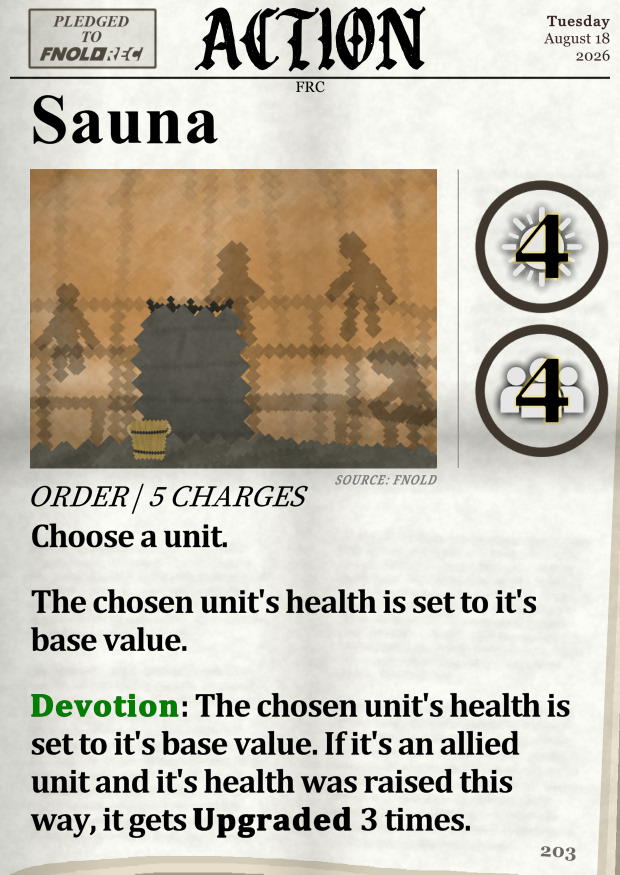
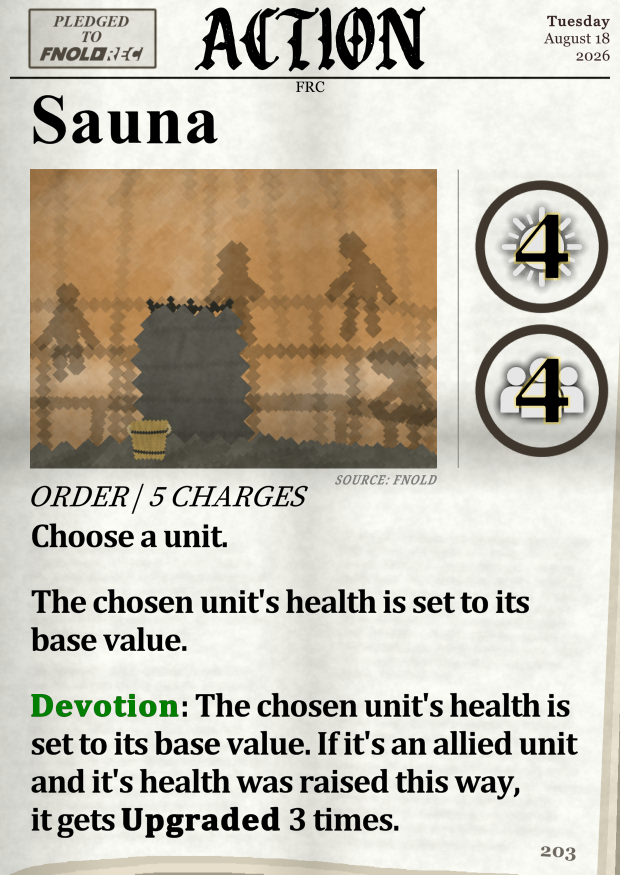
fix typos

Changed region(s): [[0.0306, 0.8331, 0.95, 0.9566], [0.8274, 0.6789, 0.8581, 0.7097]]

diff --git a/rules.html b/rules.html
@@ -179,7 +179,7 @@
                 <br><br>Infamy X - If your graveyard has X or more cards in it, instead activate this effect.
                 <br><br>Change sides - The person who triggered the Change Sides effect chooses the unit in question and another side to give that unit to. If a Busy unit was moved this way, it's still Busy after.
                 <br><br>Bury X - Put the top X cards of your deck into your graveyard.
-                Revive - The affected unit gets returned from graveyard to service. It returns on it's original owner's service, unless stated otherwise.
+                Revive - The affected unit gets returned from graveyard to service. It returns on its original owner's service, unless stated otherwise.
             </details>
             </p>
             </div>

diff --git a/cards/card-database/actions/32.js b/cards/card-database/actions/32.js
@@ -6,7 +6,7 @@ function latest() {
     const card_type = "Action";
     const card_description = `
         <p>
-        If a player would draw a card, they reveal the top card of their deck instead. Then any other player may pay 6 life. If a player does, that card gets moved to the bottom of it's original owner's deck. Otherwise, the top card of that player's deck gets moved to their hand.
+        If a player would draw a card, they reveal the top card of their deck instead. Then any other player may pay 6 life. If a player does, that card gets moved to the bottom of its original owner's deck. Otherwise, the top card of that player's deck gets moved to their hand.
         </p>`;
     const card_author = `
         <i>

diff --git a/cards/card-database/units/215.js b/cards/card-database/units/215.js
@@ -9,7 +9,7 @@ function latest() {
         Gray
         </p>`;
     const card_description = `
-        <p><b>ENTRY</b>: Choose an allied card.<br>You may move the chosen card to it's original owner's graveyard or hand.</p>
+        <p><b>ENTRY</b>: Choose an allied card.<br>You may move the chosen card to its original owner's graveyard or hand.</p>
         <br>
         <p>At the start of your turn, <b>Discard</b> 1 card and <b>Sacrifice</b> a unit other than this unit. If you have no cards in hand or no other units, instead <b>Bury</b> 3 cards and search your deck for a card, reveal it, move it into your hand, then shuffle your deck.</p>`;
     const card_stats = `

diff --git a/cards/card-database/actions/203.js b/cards/card-database/actions/203.js
@@ -9,10 +9,10 @@ function latest() {
         Choose a unit.
         </p>
         <p>
-        The chosen unit's health is set to it's base value.
+        The chosen unit's health is set to its base value.
         </p>
         <p>
-        <b>Devotion(G)</b>: The chosen unit's health is set to it's base value. If it's an allied unit and it's health was raised this way, it gets <b>Upgraded</b> 3 times.
+        <b>Devotion(G)</b>: The chosen unit's health is set to its base value. If it's an allied unit and it's health was raised this way, it gets <b>Upgraded</b> 3 times.
         </p>`;
     const card_flavor = `
         <i>

diff --git a/cards/card-database/actions/5.js b/cards/card-database/actions/5.js
@@ -9,7 +9,7 @@ function latest() {
         Choose an enemy unit.
         </p>
         <p>
-        The chosen unit gets -0/&NoBreak;-0/&NoBreak;-0/&NoBreak;-5. If the chosen unit dies this way, it gets moved to it's original owner's hand.
+        The chosen unit gets -0/&NoBreak;-0/&NoBreak;-0/&NoBreak;-5. If the chosen unit dies this way, it gets moved to its original owner's hand.
         </p>`;
     const card_author = `
         <i>

diff --git a/cards/card-database/units/97.js b/cards/card-database/units/97.js
@@ -11,7 +11,7 @@ function latest() {
     const card_description = `
         <p><b>ENTRY</b>: Each opponent <b>Discards</b> 1 card.</p>
         <br>
-        <p>Whenever this unit <b>Changes Sides</b> or dies, it's original owner <b>Upgrades</b> a unit.</p>`;
+        <p>Whenever this unit <b>Changes Sides</b> or dies, its original owner <b>Upgrades</b> a unit.</p>`;
     const card_stats = `
         <p>
         8/0/10/1

diff --git a/cards/card-database/actions/181.js b/cards/card-database/actions/181.js
@@ -12,7 +12,7 @@ function latest() {
         Choose a unit.
         </p>
         <p>
-        The chosen unit gets moved to it's owner's hand.
+        The chosen unit gets moved to its owner's hand.
         </p>`;
     const card_author = `
         <i>
